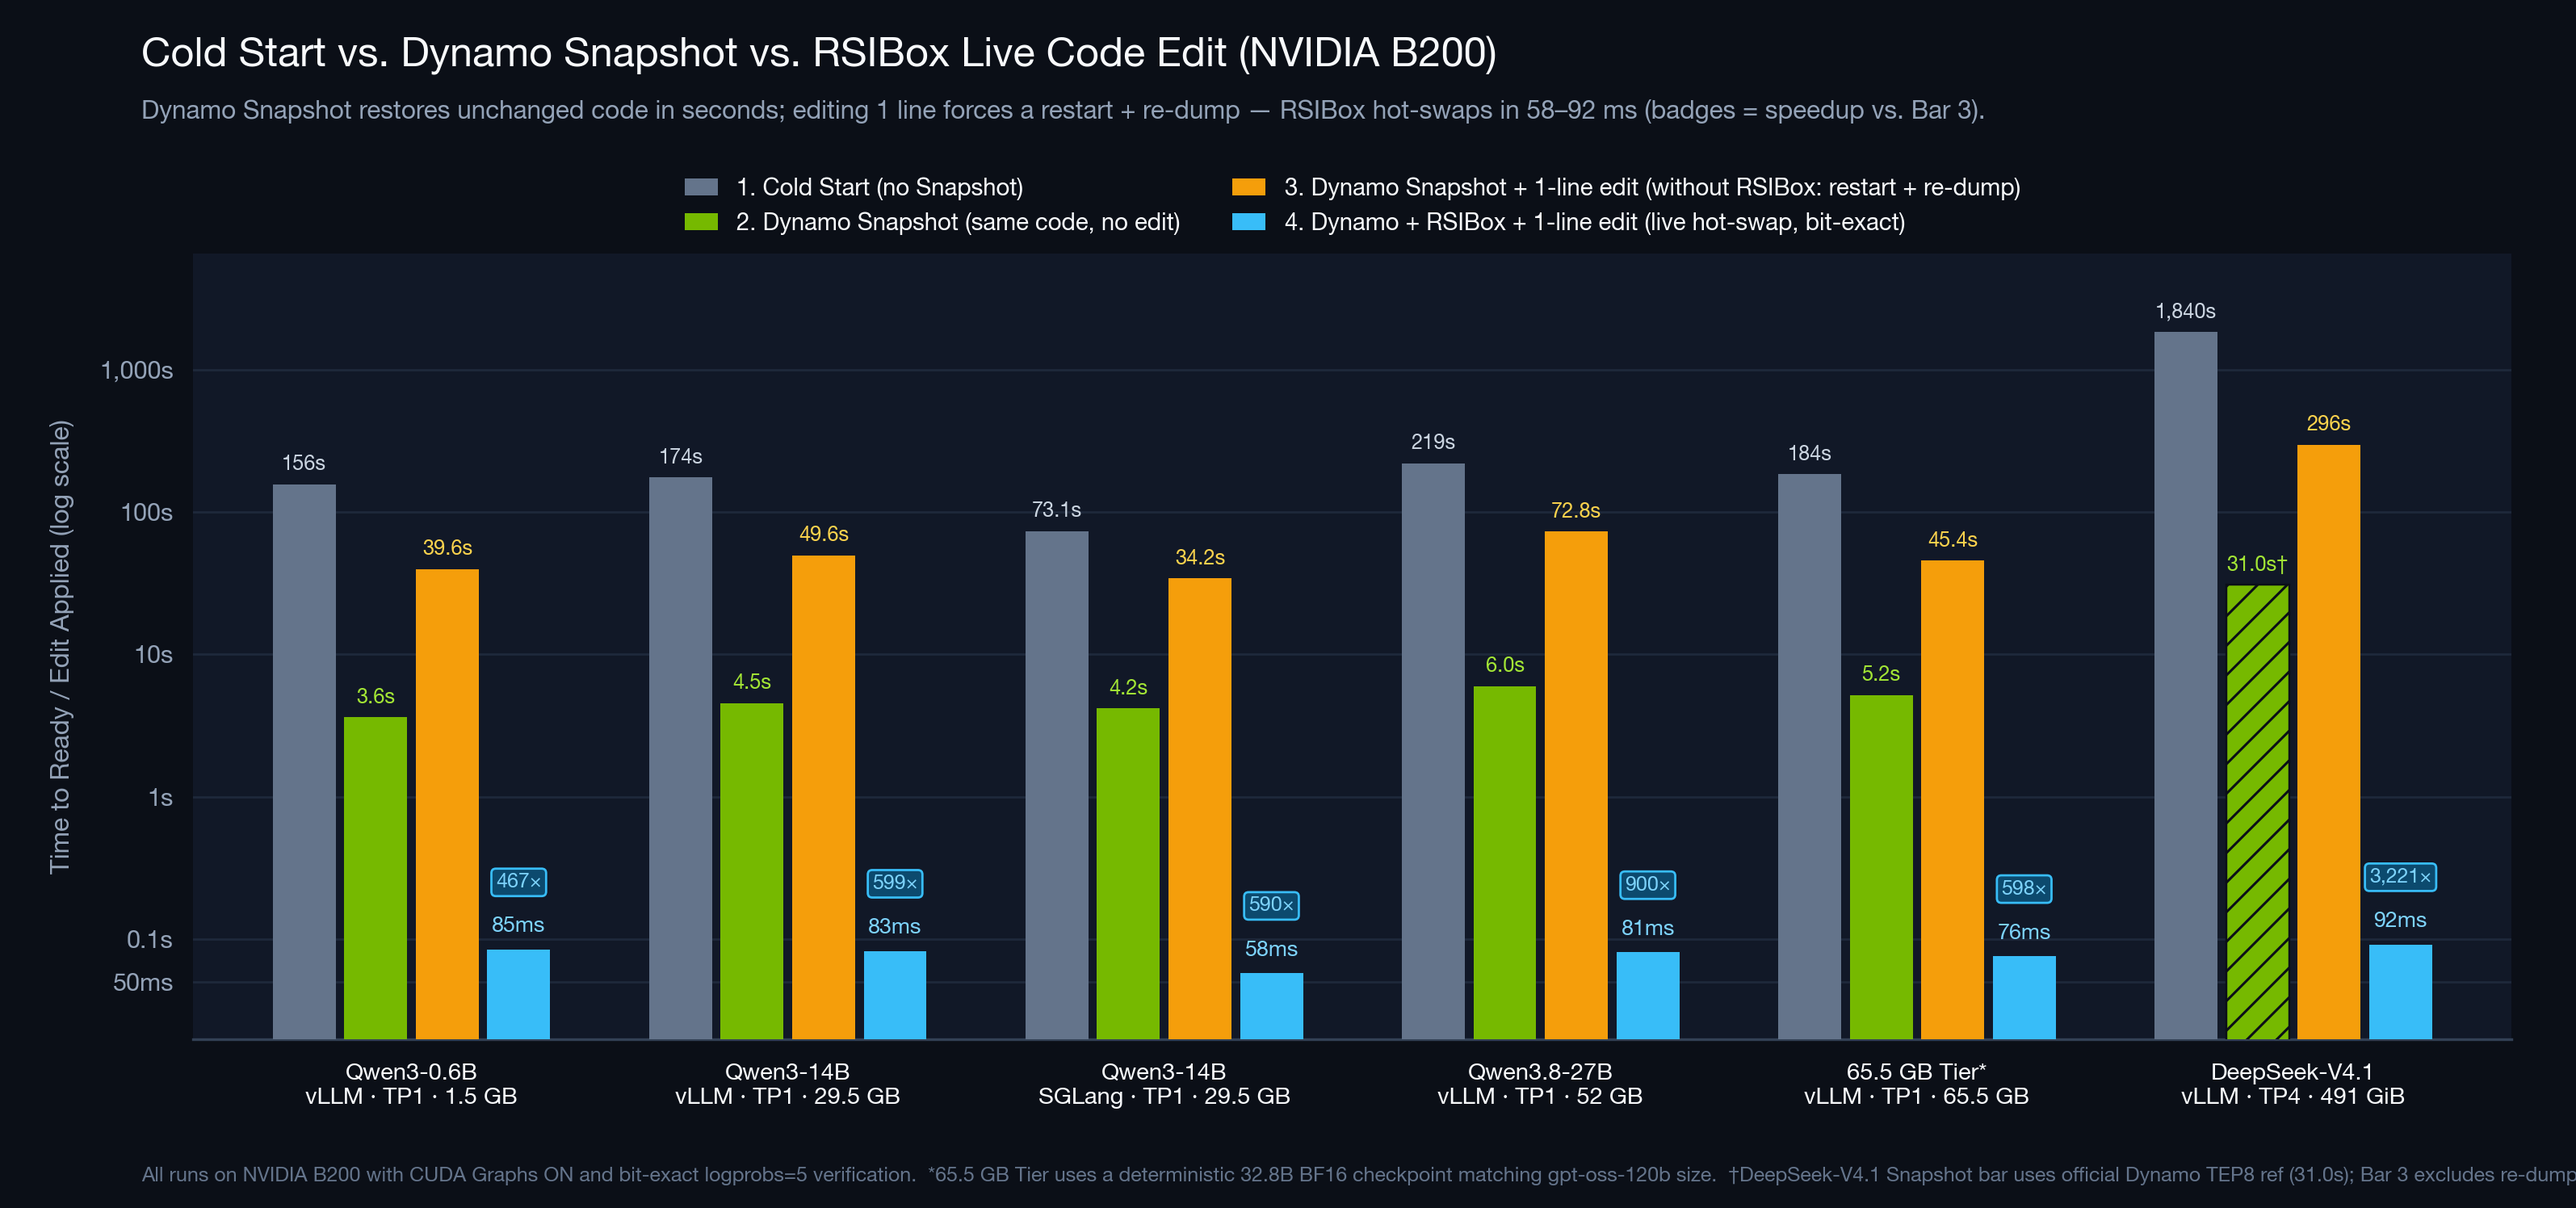
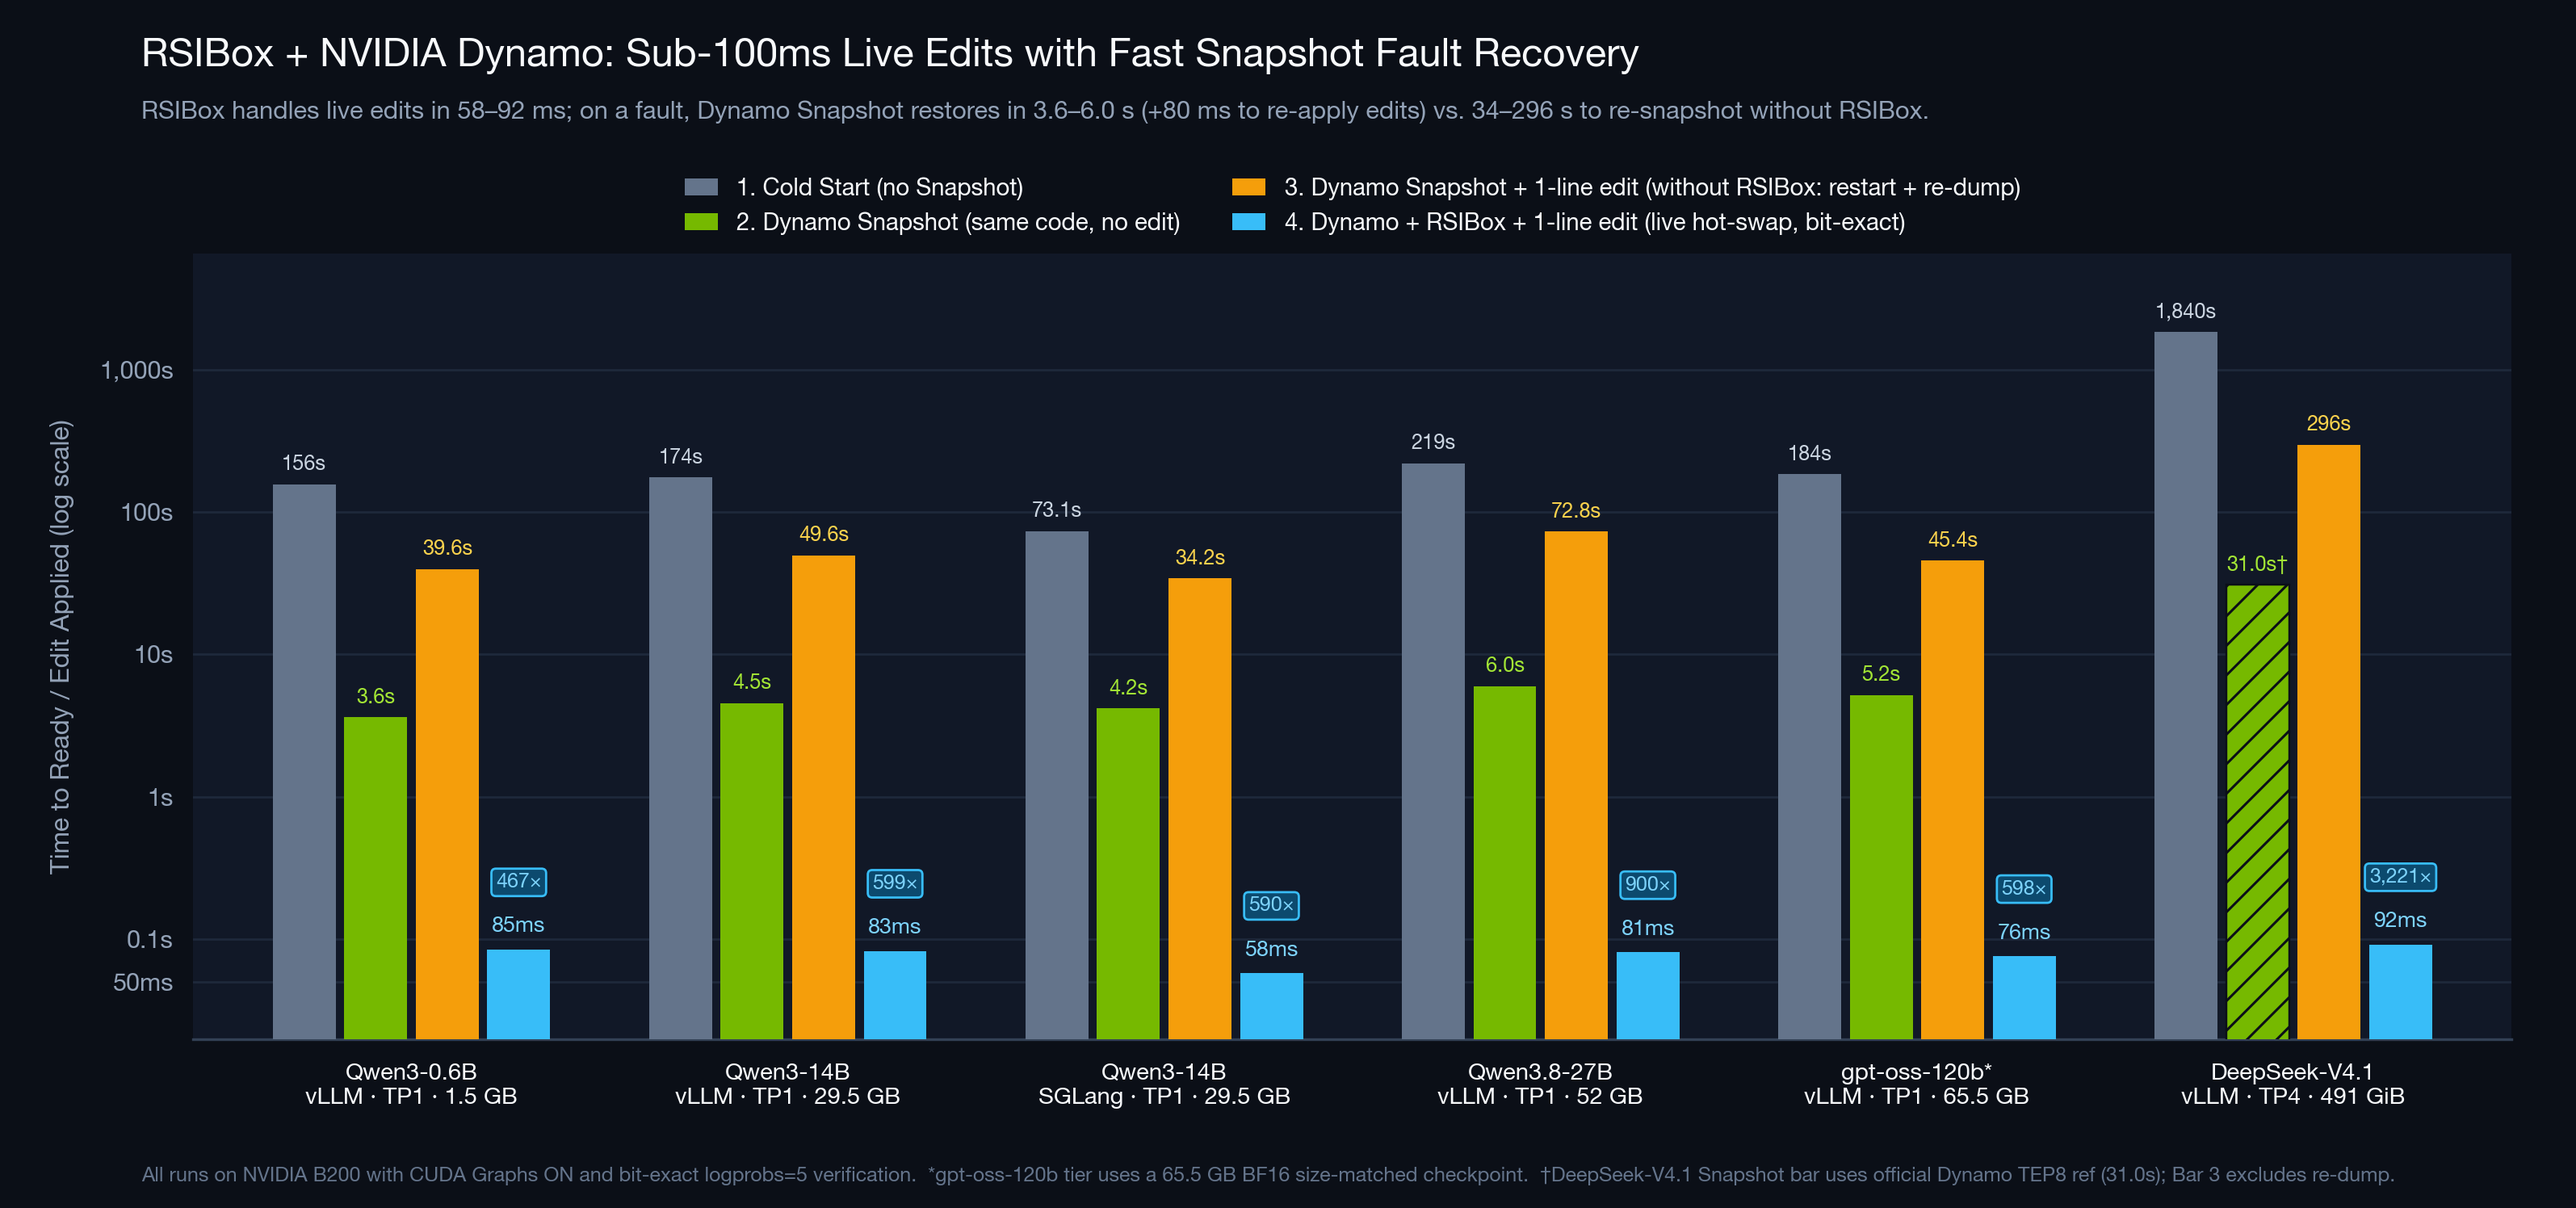
docs(assets): update 4-bar chart title, subtitle, and gpt-oss-120b label

diff --git a/scripts/plot_rsibox_dynamo_4bar.py b/scripts/plot_rsibox_dynamo_4bar.py
@@ -30,7 +30,7 @@ DATA = [
     ("Qwen3-14B",      "vLLM · TP1 · 29.5 GB",   174.50,  4.54,   False, 42.275 + 7.34,   0.0828),
     ("Qwen3-14B",      "SGLang · TP1 · 29.5 GB",  73.14,  4.18,   False, 28.05 + 6.11,    0.0579),
     ("Qwen3.8-27B",    "vLLM · TP1 · 52 GB",     219.03,  5.9571, False, 63.765 + 9.0823, 0.080945),
-    ("65.5 GB Tier*",  "vLLM · TP1 · 65.5 GB",   183.61,  5.1584, False, 38.42 + 7.0297,  0.075993),
+    ("gpt-oss-120b*",  "vLLM · TP1 · 65.5 GB",   183.61,  5.1584, False, 38.42 + 7.0297,  0.075993),
     ("DeepSeek-V4.1",  "vLLM · TP4 · 491 GiB",  1840.35, 30.96,   True,  296.393,         0.092029),
 ]
 
@@ -171,11 +171,11 @@ def draw_chart(theme_name: str, out_dir: Path) -> Path:
                   color=th["sub"], fontweight="semibold", labelpad=10)
 
     fig.text(0.055, 0.945,
-             "Cold Start vs. Dynamo Snapshot vs. RSIBox Live Code Edit (NVIDIA B200)",
-             fontsize=16.5, fontweight="bold", color=th["text"])
+             "RSIBox + NVIDIA Dynamo: Sub-100ms Live Edits with Fast Snapshot Fault Recovery",
+             fontsize=16.0, fontweight="bold", color=th["text"])
     fig.text(0.055, 0.902,
-             "Dynamo Snapshot restores unchanged code in seconds; editing 1 line forces a restart + re-dump — RSIBox hot-swaps in 58–92 ms (badges = speedup vs. Bar 3).",
-             fontsize=10.3, color=th["sub"])
+             "RSIBox handles live edits in 58–92 ms; on a fault, Dynamo Snapshot restores in 3.6–6.0 s (+80 ms to re-apply edits) vs. 34–296 s to re-snapshot without RSIBox.",
+             fontsize=10.1, color=th["sub"])
 
     leg = ax.legend(loc="upper center", bbox_to_anchor=(0.5, 1.125), ncol=2,
                     frameon=False, fontsize=9.6, handlelength=1.4, columnspacing=2.2)
@@ -185,7 +185,7 @@ def draw_chart(theme_name: str, out_dir: Path) -> Path:
 
     fig.text(0.055, 0.022,
              "All runs on NVIDIA B200 with CUDA Graphs ON and bit-exact logprobs=5 verification.  "
-             "*65.5 GB Tier uses a deterministic 32.8B BF16 checkpoint matching gpt-oss-120b size.  "
+             "*gpt-oss-120b tier uses a 65.5 GB BF16 size-matched checkpoint.  "
              "†DeepSeek-V4.1 Snapshot bar uses official Dynamo TEP8 ref (31.0s); Bar 3 excludes re-dump.",
              fontsize=8.2, color=th["muted"])
 
